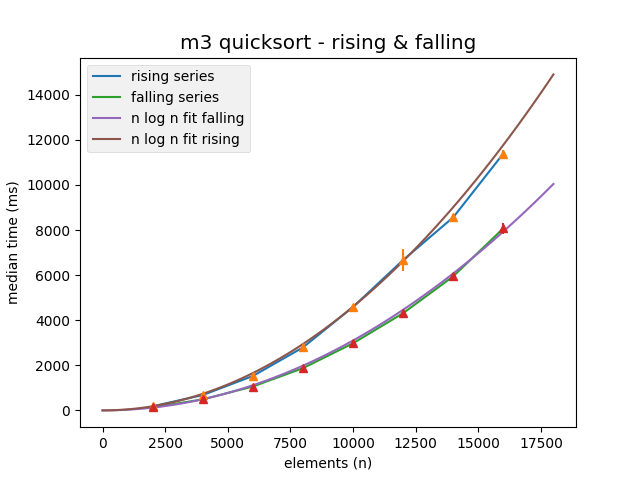
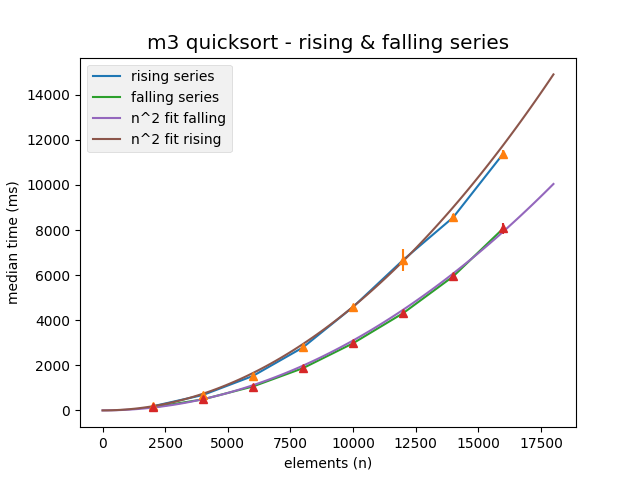
TODO is fixed. all is done now.

Changed region(s): [[0.2188, 0.0625, 0.8125, 0.125], [0.2188, 0.2188, 0.4062, 0.3125]]

diff --git a/main.py b/main.py
@@ -9,7 +9,7 @@ import numpy as np
 sys.setrecursionlimit(320000)
 
 # Generate a range of n values
-n_values = np.linspace(1, 10000000, 10000)
+
 # quicksort_results = generate_all_results(quicksort, "quicksort", 2000, 10001, 2000) write_class_to_file(
 # generate_all_results(insertion_sort, "insertionsort", 2000, 10001, 2000), "algorithm_time_results/insertionsort")
 # write_class_to_file(generate_all_results(sorted, "timsort", 100000, 1000001, 100000),
@@ -40,13 +40,6 @@ time_results = ["bubblesort", "insertionsort", "median_of_three_quicksort", "mer
 # plot_series(fileInput.const.elements, fileInput.const.median, "const series", fileInput.const.deviation)
 # plot_k_estimate(n_values, quadratic, 1.3e-4, "n^2 fit")
 
-# plot_series(fileInput.rising.elements, fileInput.rising.median, "rising series", fileInput.rising.deviation)
-# plot_series(fileInput.falling.elements, fileInput.falling.median, "falling series", fileInput.falling.deviation)
-# TODO: these are mislabeled.
-#  find the graph with these labels and FIX it.
-# plot_k_estimate(n_values, quadratic, 3.1e-5, "n log n fit falling")
-# plot_k_estimate(n_values, quadratic, 4.6e-5, "n log n fit rising")
-
 # plot_series(fileInput.rand.elements, fileInput.rand.median, "random series", fileInput.rand.deviation)
 # plot_series(fileInput.falling.elements, fileInput.falling.median, "falling series", fileInput.falling.deviation)
 # plot_k_estimate(n_values, n_log_n, 3.2e-4, "n log n fit falling series")
@@ -66,14 +59,23 @@ time_results = ["bubblesort", "insertionsort", "median_of_three_quicksort", "mer
 # write_class_to_file(generate_all_results(sorted, "timsort", 1000000, 10000000, 1000000),
 #                    "algorithm_time_results/timsort")
 
-fileInput = read_class_from_file("algorithm_time_results/timsort")
 
-plot_series(fileInput.rand.elements, fileInput.rand.median, "random series", fileInput.rand.deviation)
-#plot_series(fileInput.falling.elements, fileInput.falling.median, "falling series", fileInput.falling.deviation)
-#plot_series(fileInput.rising.elements, fileInput.rising.median, "rising series", fileInput.rising.deviation)
-#plot_series(fileInput.const.elements, fileInput.const.median, "const series", fileInput.const.deviation)
-#plot_k_estimate(n_values, linear, 5.0e-6, " linear n fit const series")
-plot_k_estimate(n_values, n_log_n, 1.74e-5, "n log n fit")
 
-generate_graph("timsort - random series", "timsort_random_series")
+# plot_series(fileInput.rand.elements, fileInput.rand.median, "random series", fileInput.rand.deviation)
+# plot_series(fileInput.falling.elements, fileInput.falling.median, "falling series", fileInput.falling.deviation)
+# plot_series(fileInput.rising.elements, fileInput.rising.median, "rising series", fileInput.rising.deviation)
+# plot_series(fileInput.const.elements, fileInput.const.median, "const series", fileInput.const.deviation)
+# plot_k_estimate(n_values, linear, 5.0e-6, " linear n fit const series")
+# plot_k_estimate(n_values, n_log_n, 1.74e-5, "n log n fit")
+
+fileInput = read_class_from_file("algorithm_time_results/median_of_three_quicksort")
+n_values = np.linspace(1, 18000, 100)
+
+plot_series(fileInput.rising.elements, fileInput.rising.median, "rising series", fileInput.rising.deviation)
+plot_series(fileInput.falling.elements, fileInput.falling.median, "falling series", fileInput.falling.deviation)
+plot_k_estimate(n_values, quadratic, 3.1e-5, "n^2 fit falling")
+plot_k_estimate(n_values, quadratic, 4.6e-5, "n^2 fit rising")
+
+generate_graph("m3 quicksort - rising & falling series", "median_of_three_quicksort_rising_falling")
+
 print("done")
